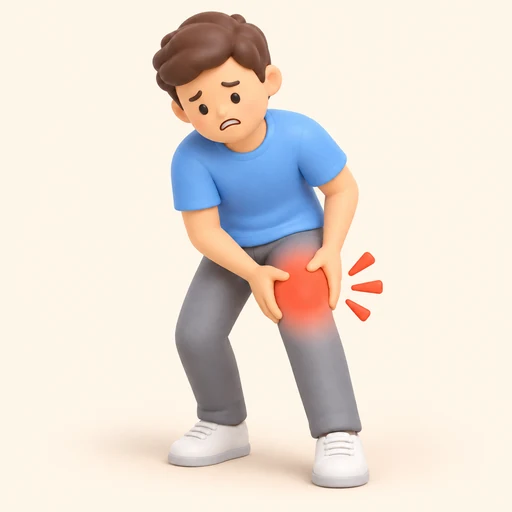
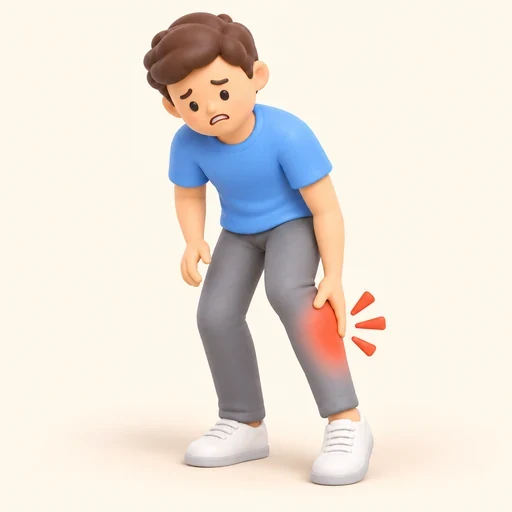
Refine calf pain scene illustration

Changed region(s): [[0.2812, 0.0, 0.75, 0.9375], [0.5938, 0.9062, 0.7188, 0.9688], [0.5625, 0.9062, 0.5938, 0.9375]]

diff --git a/sw.js b/sw.js
@@ -1,5 +1,5 @@
 /* Leren.be offline cache. Relative paths support GitHub Pages project sites. */
-const CACHE_NAME = "leren-be-v154";
+const CACHE_NAME = "leren-be-v155";
 const APP_FILES = ["./course-curriculum.js?v=122", "./modules/card-art/art.js?v=147", "./modules/card-art/people.js?v=135", "./modules/card-art/food.js?v=135", "./modules/card-art/things.js?v=135", "./modules/card-art/places.js?v=135", "./modules/card-art/more-people.js?v=135", "./modules/card-art/more-things.js?v=135", "./modules/emoji/cards.js?v=146", "./modules/emoji/variants.js?v=147", "./modules/emoji/renderer.js?v=142", "./modules/clock/clock.js", "./modules/exam/exam11.js?v=148", "./", "./index.html", "./manifest.webmanifest", "./favicon-32.png", "./apple-touch-icon.png", "./icon-192.png", "./icon-512.png", "./icon-maskable-512.png", "./privacy.html", "./fonts/nunito.woff", "./fonts/unbounded.woff", "./dict/nl.json", "./img/chars/peter.webp", "./img/chars/peter-wow.webp", "./img/chars/peter-think.webp", "./img/chars/peter-sad.webp", "./img/chars/dafna.webp", "./img/chars/dafna-wow.webp", "./img/chars/dafna-think.webp", "./img/chars/dafna-sad.webp", "./modules/clock/widget.html", "./modules/clock/widget.js", "./modules/diphthongs/widget.js?v=87", "./modules/diphthongs/widget.html?v=87", "./modules/diphthongs/widget.css?v=87", "./modules/diphthongs/words.json?v=87", "./img/topics/birthday.svg", "./img/topics/comm.svg", "./img/topics/contact.svg", "./img/topics/dag.svg", "./img/topics/food.svg", "./img/topics/forms.svg", "./img/topics/grammar.svg", "./img/topics/grammar2.svg", "./img/topics/health.svg", "./img/topics/holiday.svg", "./img/topics/nums.svg", "./img/topics/opening.svg", "./img/topics/past.svg", "./img/topics/people.svg", "./img/topics/plans.svg", "./img/topics/reading.svg", "./img/topics/service.svg", "./img/topics/shopping.svg", "./img/topics/travel.svg", "./img/topics/travelTime.svg", "./img/topics/wonen.svg", "./modules/diphthongs/lesson-core.js?v=87", "./modules/learning-path/core.js?v=102", "./modules/rewards/core.js?v=102", "./modules/companion/ui.js?v=116", "./modules/rewards/gifts.js?v=102", "./modules/rewards/ui.js?v=102", "./modules/learning-path/ui.js?v=149", "./modules/learning-path/style.css?v=141", "./modules/rewards/style.css?v=102", "./modules/companion/style.css?v=102", "./img/mascot/student-cat-v1.png", "./audio/nl/pronunciation-v105/7dc692a9.m4a", "./audio/nl/pronunciation-v105/c79493aa.m4a", "./audio/nl-f/pronunciation-v105/7dc692a9.m4a", "./audio/nl-f/pronunciation-v105/c79493aa.m4a", "./modules/focused-home/ui.js?v=149", "./modules/desktop-home/ui.js?v=149", "./modules/desktop-home/style.css?v=149", "./modules/focused-home/style.css?v=144", "./modules/test-library/ui.js?v=109", "./modules/test-library/style.css?v=109", "./img/tests/first-steps-v109.webp", "./img/tests/everyday-v109.webp", "./img/tests/practice-v109.webp", "./modules/game-gallery/style.css?v=111", "./img/games/story-v111.webp", "./img/games/ai-v111.webp", "./img/games/ask-v111.webp", "./img/games/dlg-v111.webp", "./img/games/rp-v111.webp", "./img/games/sp-v111.webp", "./img/games/bl-v111.webp", "./img/games/mm-v111.webp", "./img/games/dc-v111.webp", "./img/games/md-v111.webp", "./img/games/om-v111.webp", "./img/games/ks-v111.webp", "./modules/lesson-conversation/content.js?v=112", "./modules/lesson-conversation/core.js?v=112", "./modules/lesson-conversation/ui.js?v=112", "./modules/ai-coach/core.js?v=112", "./modules/ai-coach/ui.js?v=112", "./modules/word-builder/art.js?v=150", "./modules/word-builder/game.js?v=150", "./modules/word-builder/style.css?v=113", "./img/games/wb-v114.webp"];
 
 APP_FILES.push("./img/learning-path/wake-cat-v1.png");
@@ -127,5 +127,5 @@ APP_FILES.push("./img/scenes/kl_9.webp");
 APP_FILES.push("./img/scenes/mv_1.webp");
 APP_FILES.push("./img/scenes/mv_12.webp");
 APP_FILES.push("./img/scenes/mv_6.webp");
-APP_FILES.push("./modules/scenes/map.js?v=154");
+APP_FILES.push("./modules/scenes/map.js?v=155");
 // scenes-end

diff --git a/index.html b/index.html
@@ -19,7 +19,7 @@
 <script src="./modules/learning-path/core.js?v=102"></script>
 <script src="./modules/rewards/core.js?v=102"></script>
 <script src="./modules/companion/ui.js?v=116"></script>
-<script src="./modules/scenes/map.js?v=154"></script>
+<script src="./modules/scenes/map.js?v=155"></script>
 <script src="./modules/card-art/art.js?v=147"></script>
 <script src="./modules/card-art/people.js?v=135"></script>
 <script src="./modules/card-art/food.js?v=135"></script>
@@ -6791,7 +6791,7 @@ const UPD_UI={uk:{t:"Вийшла нова версія застосунку",ve
  ar:{t:"يتوفر إصدار جديد من التطبيق",ver:"الإصدار",go:"تحديث",done:"✓ تم تحديث التطبيق إلى الإصدار "}};
 const updU=()=>UPD_UI[uiLang]||UPD_UI.uk;
 // Keep the announcement available after updating, including users who already installed v87.
-const RELEASE_VERSION="154";
+const RELEASE_VERSION="155";
 const RELEASE_UI={"uk": {"title": "Що нового в Leren.be", "intro": "Новий вигляд головної.", "items": ["Мова пояснень — круглий прапорець у шапці.", "Теми курсу — великі картки з описом, відсотком і кнопкою «Продовжити».", "Картинки в уроках тепер цілі, без обрізаних країв.", "«Повторити» тепер просить обрати переклад, а малюнки болю показують, де саме болить.", "На комп’ютері: шапка на всю ширину, меню з іконками, нагадування й акаунт поруч."], "hint": "Почни з картки «Твій наступний урок».", "ok": "Зрозуміло"}, "en": {"title": "What’s new in Leren.be", "intro": "A new home screen.", "items": ["Explanation language is now a round flag in the header.", "Course topics are big cards with a description, % done and a Continue button.", "Lesson pictures are complete — no more cut edges.", "Review now asks for the translation, and pain pictures mark exactly where it hurts.", "On a computer: full-width header, menu with icons, reminders and account at hand."], "hint": "Start with “Your next lesson”.", "ok": "Got it"}, "fr": {"title": "Les nouveautés de Leren.be", "intro": "Un nouvel accueil.", "items": ["La langue des explications est un drapeau rond dans l’en-tête.", "Les thèmes sont de grandes cartes avec description, % terminé et bouton Continuer.", "Les images des leçons sont complètes, sans bords coupés.", "La révision demande la traduction et les images de douleur montrent l’endroit exact.", "Sur ordinateur : en-tête pleine largeur, menu avec icônes, rappels et compte à portée."], "hint": "Commence par « Ta prochaine leçon ».", "ok": "Compris"}, "ar": {"title": "الجديد في Leren.be", "intro": "صفحة رئيسية جديدة.", "items": ["لغة الشرح أصبحت علماً دائرياً في الأعلى.", "مواضيع الدورة بطاقات كبيرة مع وصف ونسبة الإنجاز وزر «تابع».", "صور الدروس كاملة الآن دون حواف مقطوعة.", "المراجعة تطلب الآن الترجمة، وصور الألم تُظهر مكان الألم بدقة.", "على الحاسوب: شريط علوي بعرض الصفحة وقائمة بأيقونات والتذكيرات والحساب في متناولك."], "hint": "ابدأ ببطاقة «درسك التالي».", "ok": "فهمت"}};
 function showReleaseNotes(){
  const u=RELEASE_UI[uiLang]||RELEASE_UI.uk;
